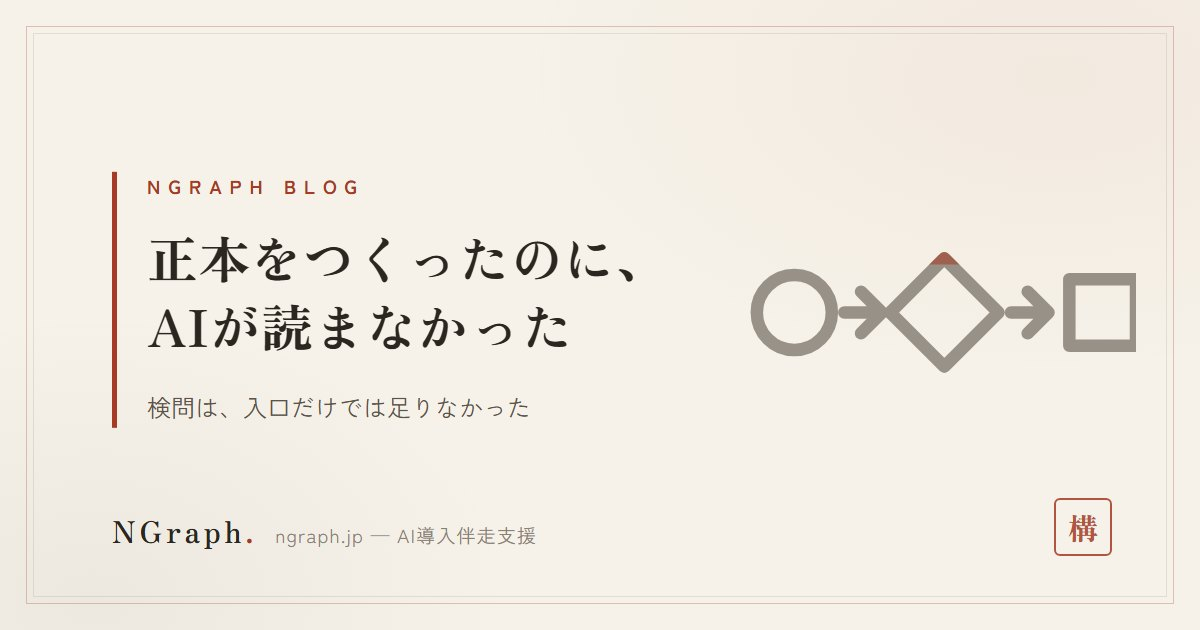
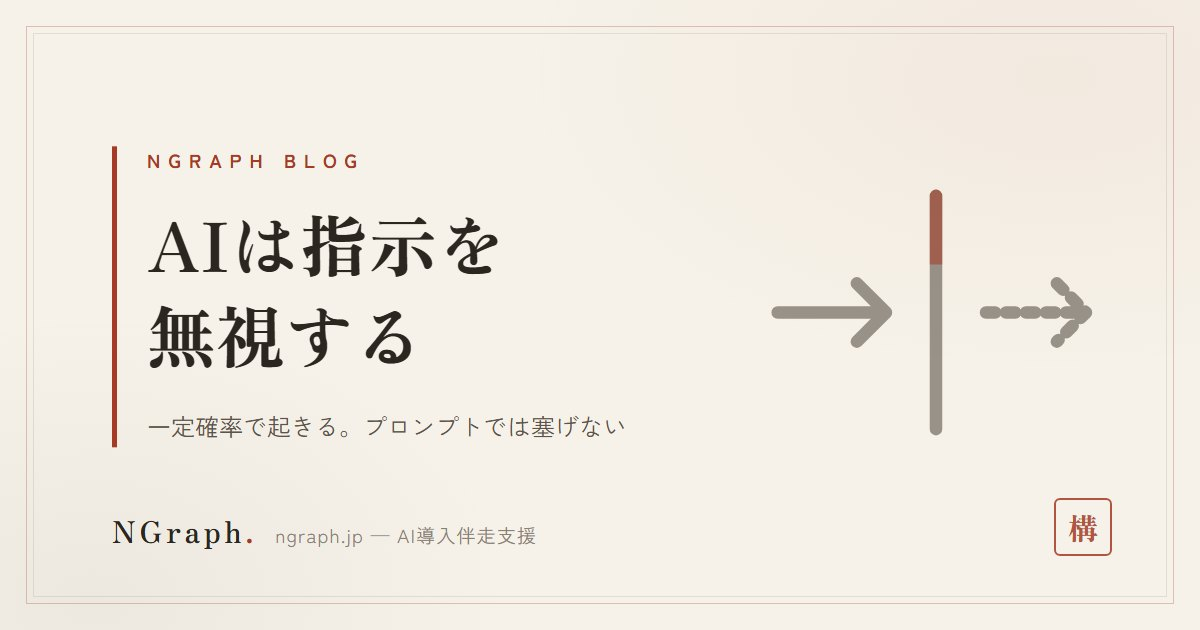
表紙の文言が改題に追従しない穴を塞ぐ（seihon-yomarenaiの表紙を作り直し）
- 20260806-seihon-yomarenai の表紙が8/8の改題前の文言（正本をつくったのに、
  AIが読まなかった）のままだったので、現在の主張で作り直した
  （AIは指示を/無視する・一定確率で起きる。プロンプトでは塞げない・blocked型）
- 原因: 表紙の文言は焼かれたJPEGの中にしか無く、どこにも記録が無かった。
  8/9の重なり修正で作り直したときも旧文言のまま再生成しており、
  「タイトル変更日 vs 画像の更新日」の比較では捕まらない
- eyecatch_gen.py: 生成時に assets/blog/_eyecatch.json へ文言と
  「その時点の記事タイトル」を記録する
- eyecatch_text_check.py（新規・gateに追加）: 記録した article_h1 と現在のh1を
  照合し、改題後に表紙を作り直していない記事を落とす。改題履歴のある既存11本は
  画像を目視確認のうえ遡って記録（ズレていたのは1本だけ）
- eyecatch_gen.py: サブテキストの折り返しも生成時に検査（従来はタイトルのみ検査で、
  24文字のサブの最終行に1文字だけ落ちる表紙が実際に生成された）

diff --git a/scripts/eyecatch_gen.py b/scripts/eyecatch_gen.py
@@ -108,6 +108,14 @@ MAX_LINES = 2
 KINSOKU_HEAD = "」）】』〉》、。，．・？！ゃゅょっァィゥェォッャュョーぁぃぅぇぉ%％"
 KINSOKU_TAIL = "「（【『〈《"
 
+# サブテキストの検査（2026-08-11）。タイトルだけ級数と行数を見ていて、
+# **サブは無検査だった**。24文字のサブが566pxを10pxだけ超え、
+# 最終行に「い」1文字だけが落ちた表紙が生成された（20260806-seihon-yomarenai）。
+# .sub は width:566px・font-size:24px・letter-spacing なし。
+SUB_W = 566
+SUB_FS = 24
+MAX_SUB_LINES = 2
+
 
 def _advance(ch, fs):
     return fs * 0.57 if ord(ch) < 0x2E80 else fs * 1.04  # 1.02em + letter-spacing .02em
@@ -165,6 +173,74 @@ def _require_legible(fs, body):
     sys.exit(3)
 
 
+def _wrap_sub(sub):
+    """サブテキストを実際に折り返して各行の文字数を返す（letter-spacingなし）。"""
+    lines, cur, n = [], 0.0, 0
+    for i, ch in enumerate(sub):
+        w = SUB_FS * (0.55 if ord(ch) < 0x2E80 else 1.0)
+        if cur + w > SUB_W:
+            if ch in KINSOKU_HEAD or (i and sub[i - 1] in KINSOKU_TAIL):
+                # 禁則で1文字送られる分は、そのまま前の行に残る扱いでよい（幅は超えるが実測で収まる）
+                cur += w
+                n += 1
+                continue
+            lines.append(n)
+            cur, n = w, 1
+        else:
+            cur += w
+            n += 1
+    lines.append(n)
+    return lines
+
+
+def check_sub(sub):
+    """サブの行数と「最終行に1文字だけ残る」を生成前に落とす。"""
+    if not sub:
+        return
+    lines = _wrap_sub(sub)
+    if len(lines) > MAX_SUB_LINES:
+        over = sum(lines[MAX_SUB_LINES:])
+        print("ERROR: サブテキストが%d行になります（上限%d行）。あと%d文字ほど削ってください。"
+              % (len(lines), MAX_SUB_LINES, over))
+        sys.exit(3)
+    if len(lines) > 1 and lines[-1] <= 1:
+        print("ERROR: サブテキストの最終行に%d文字だけ残ります（%d文字が%d行に折り返す）。"
+              % (lines[-1], len(sub), len(lines)))
+        print("       1文字だけ次行に落ちると事故に見えます。"
+              "あと2文字ほど削るか、言い換えて%d文字以内に収めてください。"
+              % (len(sub) - lines[-1] - 2))
+        sys.exit(3)
+
+
+def record(slug, title, sub, pat, fs):
+    """表紙の文言を記録する（BLOG-OPS §8「表紙の文言の検査」）。
+
+    2026-08-11に入れた。**表紙の文言は焼かれたJPEGの中にしか無く、どこにも記録が無かった。**
+    そのため記事を改題しても表紙が旧文言のまま取り残され、誰も気付けない
+    （20260806-seihon-yomarenai は8/8の改題後も旧タイトルの表紙が3日間出ていた）。
+    `article_h1` は「この表紙を作った時点の記事タイトル」。ここが現在のh1とズレたら
+    `eyecatch_text_check.py` が落とす。記事より先に表紙を作る場合は null で記録され、
+    検査の初回実行時に紐付けられる。
+    """
+    import json
+    path = os.path.join(OUT, "_eyecatch.json")
+    try:
+        data = json.load(open(path, encoding="utf-8"))
+    except Exception:
+        data = {}
+    h1 = None
+    art = os.path.join(ROOT, "blog", slug + ".html")
+    if os.path.exists(art):
+        import re
+        m = re.search(r"<h1[^>]*>(.*?)</h1>", open(art, encoding="utf-8").read(), re.S)
+        if m:
+            h1 = re.sub(r"<[^>]+>", "", m.group(1)).strip()
+    data[slug] = {"title": title, "sub": sub, "pattern": pat, "fs": fs, "article_h1": h1}
+    with open(path, "w", encoding="utf-8") as f:
+        json.dump(data, f, ensure_ascii=False, indent=1, sort_keys=True)
+        f.write("\n")
+
+
 def main():
     if len(sys.argv) < 5:
         print(__doc__)
@@ -179,8 +255,10 @@ def main():
     if pat not in PATS:
         print("unknown pattern:", pat, "->", "/".join(PATS))
         sys.exit(1)
+    check_sub(sub)
+    fs = fit_font_size(title)
     title_html = esc(title).replace("{nb}", '<span class="nb">').replace("{/nb}", "</span>")
-    html = TPL % {"title": title_html, "sub": esc(sub), "pat": PATS[pat], "fs": fit_font_size(title)}
+    html = TPL % {"title": title_html, "sub": esc(sub), "pat": PATS[pat], "fs": fs}
     html = html.replace(">NGRAPH BLOG<", ">" + esc(label) + "<")
     tmp = tempfile.mkdtemp(prefix="eyecatch_")
     hp = os.path.join(tmp, slug + ".html")
@@ -204,6 +282,8 @@ def main():
     im = Image.open(png).convert("RGB")
     out = out_override or os.path.join(OUT, slug + ".jpg")
     im.save(out, "JPEG", quality=86)
+    if not out_override:  # --out はX添付等の単体書き出しなので、表紙の記録には入れない
+        record(slug, title, sub, pat, fs)
     print("OK", out, im.size)
 
 

diff --git a/scripts/eyecatch_text_check.py b/scripts/eyecatch_text_check.py
@@ -1,0 +1,101 @@
+#!/usr/bin/env python
+# -*- coding: utf-8 -*-
+"""表紙（アイキャッチ）の文言が、記事の現在のタイトルとズレていないかの検査。
+
+なぜ入れたか（2026-08-11・髙橋さん指摘「面白いテーマなのに表紙の文字がそれを表現出来てない」）:
+`20260806-seihon-yomarenai` は8/8に改題（旧「正本をつくったのに、AIが読まなかった」→
+新「AIは指示を一定確率で無視する」）したのに、**表紙だけが旧タイトルのまま3日間出ていた**。
+原因は仕組みの側にある——**表紙の文言は焼かれたJPEGの中にしか存在せず、どこにも記録が無かった。**
+だから改題しても「表紙が古い」ことを誰も（人もスクリプトも）見られなかった。
+8/9に同じ画像を重なり修正で作り直したときも、旧文言のまま再生成している（＝日付の比較では捕まらない）。
+
+仕組み: `eyecatch_gen.py` が生成時に `assets/blog/_eyecatch.json` へ
+  {slug: {title, sub, pattern, fs, article_h1}}
+を記録する。`article_h1` は「その表紙を作った時点の記事タイトル」。
+この検査は `article_h1` と現在の `<h1>` を比べるだけ。**改題すれば必ず不一致になる。**
+
+判定:
+  - 記録あり／`article_h1` が現在のh1と不一致 → NG（改題後に表紙を作り直していない）
+  - 記録あり／`article_h1` が null → 現在のh1で初回紐付けして記録（表紙を記事より先に作る運用を許容）
+  - 記録なし／slug が CUTOFF 以降 → NG（生成器を通していない＝手で作った表紙）
+  - 記録なし／それ以前 → 参考表示のみ（既存資産。改題履歴のある記事は8/11に遡って記録済み）
+
+使い方:
+    python scripts/eyecatch_text_check.py
+"""
+import glob
+import json
+import os
+import re
+import sys
+
+sys.stdout.reconfigure(encoding="utf-8")
+
+ROOT = os.path.dirname(os.path.dirname(os.path.abspath(__file__)))
+STORE = os.path.join(ROOT, "assets", "blog", "_eyecatch.json")
+# この日付以降のslugは、記録が無ければ落とす（title_lint.py と同じ考え方）
+CUTOFF = "20260811"
+
+
+def load():
+    try:
+        return json.load(open(STORE, encoding="utf-8"))
+    except Exception:
+        return {}
+
+
+def h1_of(path):
+    m = re.search(r"<h1[^>]*>(.*?)</h1>", open(path, encoding="utf-8").read(), re.S)
+    return re.sub(r"<[^>]+>", "", m.group(1)).strip() if m else None
+
+
+def main():
+    data = load()
+    files = sorted(glob.glob(os.path.join(ROOT, "blog", "*.html")))
+    files = [f for f in files if os.path.basename(f) != "index.html"]
+
+    bad, linked, unrecorded = [], [], []
+    for f in files:
+        slug = os.path.basename(f)[:-5]
+        h1 = h1_of(f)
+        rec = data.get(slug)
+        if rec is None:
+            if slug[:8].isdigit() and slug[:8] >= CUTOFF:
+                bad.append((slug, "表紙の文言が記録されていない（eyecatch_gen.py で作り直す）"))
+            else:
+                unrecorded.append(slug)
+            continue
+        if rec.get("article_h1") is None:
+            rec["article_h1"] = h1
+            linked.append(slug)
+            continue
+        if h1 and rec["article_h1"] != h1:
+            bad.append((slug, "改題後に表紙を作り直していない\n"
+                              "         表紙を作った時のタイトル: %s\n"
+                              "         現在のタイトル:           %s\n"
+                              "         いまの表紙の文言: 「%s」／「%s」"
+                              % (rec["article_h1"][:60], h1[:60],
+                                 rec.get("title", "").replace("{nb}", "").replace("{/nb}", ""),
+                                 rec.get("sub", ""))))
+
+    if linked:
+        with open(STORE, "w", encoding="utf-8") as fp:
+            json.dump(data, fp, ensure_ascii=False, indent=1, sort_keys=True)
+            fp.write("\n")
+        print("初回紐付け: %d件（%s）" % (len(linked), " / ".join(linked)))
+
+    if bad:
+        print("NG: 表紙の文言が記事とズレている %d件" % len(bad))
+        for slug, why in bad:
+            print("  - %s: %s" % (slug, why))
+        print("  直し方: python scripts/eyecatch_gen.py <slug> \"<主張だけを短く>\" \"<サブ>\" <pattern>")
+        print("         （表紙は記事タイトルの流用ではなく、主張だけを言い切る。BLOG-OPS §3）")
+        return 1
+
+    print("OK: 表紙の文言 %d件を記事タイトルと照合（未記録の既存記事 %d件は対象外）"
+          % (len(files) - len(unrecorded), len(unrecorded)))
+    return 0
+
+
+if __name__ == "__main__":
+    sys.exit(main())

diff --git a/scripts/gate.py b/scripts/gate.py
@@ -31,6 +31,7 @@ CHECKS = [
     ("同日記事の相互リンク（朝↔夕）", "crosslink_check.py", [], False),
     ("一次体験の使い回し", "anecdote_lint.py", [], True),
     ("アイキャッチの本文と図案の重なり", "eyecatch_check.py", [], False),
+    ("表紙の文言と記事タイトルのズレ", "eyecatch_text_check.py", [], False),
 ]
 
 
